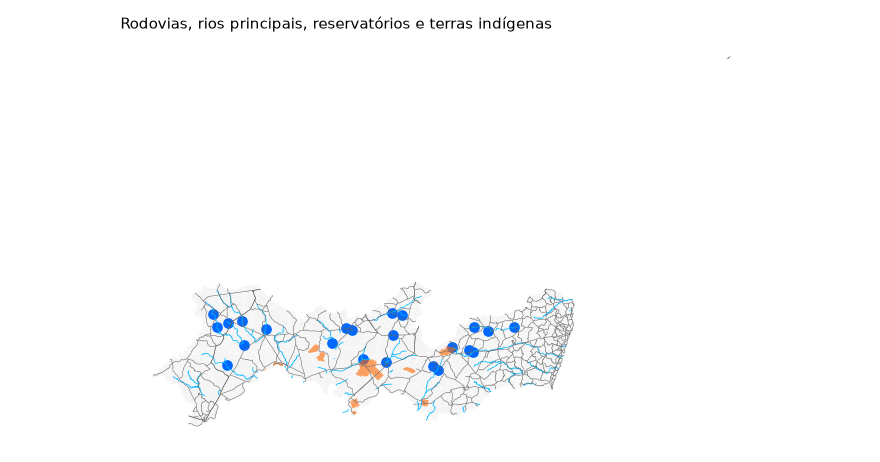
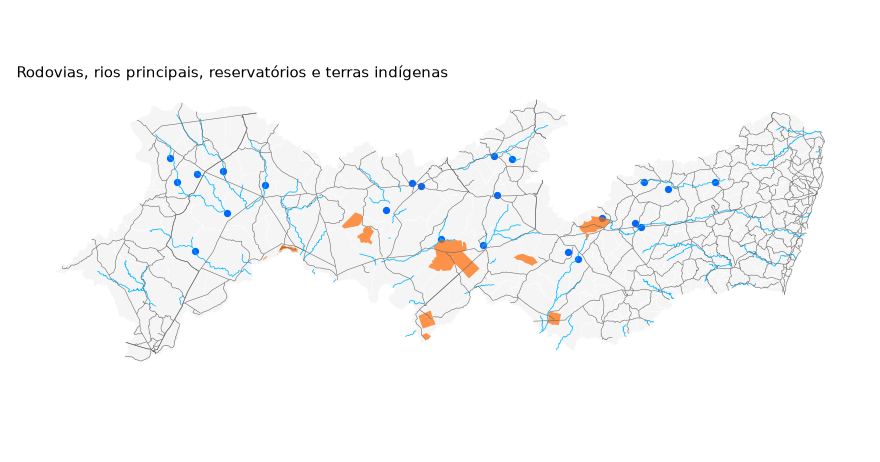
docs: mapa das camadas recortado ao continente (Noronha esticava a extensão)

diff --git a/docs/precompile.py b/docs/precompile.py
@@ -652,15 +652,20 @@ metropolitanas. A tabela é
 
         ti = condepe.condepe_layer("terras_indigenas")
 
+        # As camadas cobrem o Estado inteiro, Noronha inclusive; recorte ao continente
+        xmin, ymin, xmax, ymax = malha.total_bounds
+
+        recorte = lambda g: g.cx[xmin:xmax, ymin:ymax]  # noqa: E731
+
         ax = malha.plot(color="#f5f5f5", edgecolor="white", linewidth=0.3, figsize=(8, 4.2))
 
-        rios.plot(ax=ax, color="#00B7FF", linewidth=0.5)
+        recorte(rios).plot(ax=ax, color="#00B7FF", linewidth=0.5)
 
-        reservatorios.plot(ax=ax, color="#0068FF")
+        recorte(rodovias).plot(ax=ax, color="#666666", linewidth=0.35)
 
-        rodovias.plot(ax=ax, color="#666666", linewidth=0.35)
+        recorte(reservatorios).plot(ax=ax, color="#0068FF", markersize=14)
 
-        ti.plot(ax=ax, color="#FF6700", alpha=0.6)
+        recorte(ti).plot(ax=ax, color="#FF6700", alpha=0.7)
 
         ax.set_axis_off()
 

diff --git a/docs/mapas.md b/docs/mapas.md
@@ -314,15 +314,20 @@ reservatorios = condepe.condepe_hydrography("reservatorios")
 
 ti = condepe.condepe_layer("terras_indigenas")
 
+# As camadas cobrem o Estado inteiro, Noronha inclusive; recorte ao continente
+xmin, ymin, xmax, ymax = malha.total_bounds
+
+recorte = lambda g: g.cx[xmin:xmax, ymin:ymax]  # noqa: E731
+
 ax = malha.plot(color="#f5f5f5", edgecolor="white", linewidth=0.3, figsize=(8, 4.2))
 
-rios.plot(ax=ax, color="#00B7FF", linewidth=0.5)
+recorte(rios).plot(ax=ax, color="#00B7FF", linewidth=0.5)
 
-reservatorios.plot(ax=ax, color="#0068FF")
+recorte(rodovias).plot(ax=ax, color="#666666", linewidth=0.35)
 
-rodovias.plot(ax=ax, color="#666666", linewidth=0.35)
+recorte(reservatorios).plot(ax=ax, color="#0068FF", markersize=14)
 
-ti.plot(ax=ax, color="#FF6700", alpha=0.6)
+recorte(ti).plot(ax=ax, color="#FF6700", alpha=0.7)
 
 ax.set_axis_off()
 
